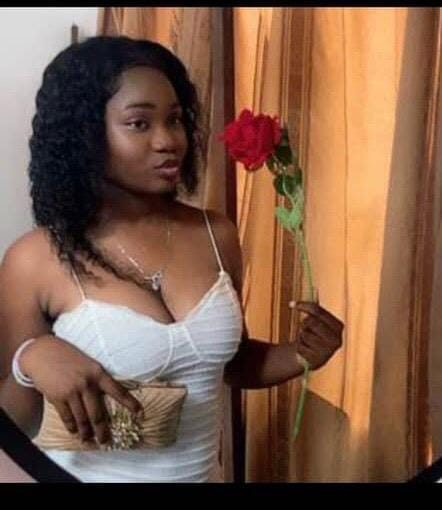
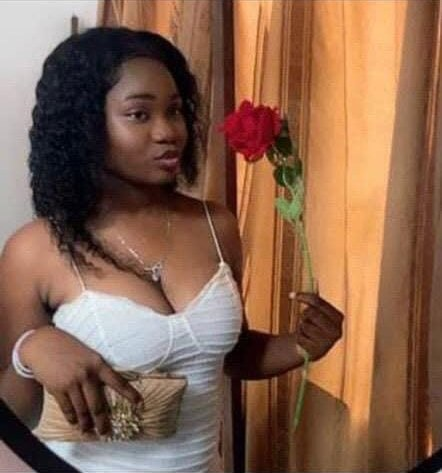
Version mobile

diff --git a/index.html b/index.html
@@ -1,5 +1,16 @@
-<title>Ton Grand Jour</title>
-<meta name="claude:viewport-fit-sides" content="cover">
+<!doctype html>
+<html lang="fr">
+<head>
+<meta charset="utf-8">
+<meta name="viewport" content="width=device-width,initial-scale=1,viewport-fit=cover">
+<meta name="theme-color" content="#170d2a">
+<meta name="description" content="Un petit cadeau pour Gracieuse, pour son anniversaire.">
+<meta property="og:type" content="website">
+<meta property="og:title" content="Joyeux anniversaire, Gracieuse">
+<meta property="og:description" content="Un petit cadeau rien que pour toi. Ouvre-le !">
+<meta property="og:image" content="https://gbodogbejores5-a11y.github.io/joyeux-anniversaire/img/studio-debout.jpg">
+<meta property="og:url" content="https://gbodogbejores5-a11y.github.io/joyeux-anniversaire/">
+<title>Joyeux anniversaire, Gracieuse</title>
 <link rel="preconnect" href="https://fonts.googleapis.com">
 <link rel="preconnect" href="https://fonts.gstatic.com" crossorigin>
 <link href="https://fonts.googleapis.com/css2?family=Cormorant+Garamond:ital,wght@0,400;0,500;0,600;1,400;1,500&family=Jost:wght@300;400;500&family=Pinyon+Script&display=swap" rel="stylesheet">
@@ -78,6 +89,7 @@ a{color:inherit}
 @keyframes scroll{to{transform:translateX(-50%)}}
 
 section{padding-block:clamp(56px,9vw,120px)}
+section.tight{padding-block:clamp(8px,2vw,24px)}
 .head{display:flex;flex-direction:column;gap:12px;margin-bottom:clamp(28px,4vw,52px);max-width:60ch}
 .head h2{font-size:clamp(2.2rem,5.4vw,4rem)}
 .head h2 em{font-style:italic;font-weight:400}
@@ -88,7 +100,7 @@ section{padding-block:clamp(56px,9vw,120px)}
   box-shadow:0 0 0 1px var(--line),0 50px 100px -30px rgba(0,0,0,.7)}
 .slide{position:absolute;inset:0;opacity:0;transition:opacity 1.3s ease;pointer-events:none}
 .slide.on{opacity:1;pointer-events:auto}
-.slide .bg{position:absolute;inset:-6%;width:112%;height:112%;object-fit:cover;filter:blur(34px) saturate(1.2) brightness(.7)}
+.slide .bg{position:absolute;inset:-6%;width:112%;height:112%;object-fit:cover;filter:blur(22px) saturate(1.2) brightness(.7)}
 .slide .fg{position:absolute;inset:0;width:100%;height:100%;object-fit:contain;padding:clamp(8px,2vw,22px);transform:scale(1)}
 .slide.on .fg{animation:zoom 7s ease-out forwards}
 @keyframes zoom{from{transform:scale(1)}to{transform:scale(1.045)}}
@@ -197,7 +209,11 @@ footer .script{font-size:2rem;color:var(--gold);display:block}
   .stage{aspect-ratio:4/5}
   .nav{width:40px;height:40px}
   .thumbs{grid-template-columns:repeat(7,1fr);gap:6px}
-  .seal,.seal-core{width:104px;height:104px;right:-8px;bottom:-14px}
+  .seal,.seal-core{width:104px;height:104px;right:-6px;bottom:-14px}
+  .hero{padding-top:28px}
+  .shots.two figure:nth-child(2){margin-top:22px}
+  .nav{display:none}
+  .stage{touch-action:pan-y}
 }
 @media (prefers-reduced-motion:reduce){
   *,*::before,*::after{animation-duration:.01ms!important;animation-iteration-count:1!important;transition-duration:.01ms!important;scroll-behavior:auto!important}
@@ -206,6 +222,8 @@ footer .script{font-size:2rem;color:var(--gold);display:block}
 }
 </style>
 
+</head>
+<body>
 <canvas id="petals" aria-hidden="true"></canvas>
 
 <header class="hero" id="haut">
@@ -252,7 +270,7 @@ footer .script{font-size:2rem;color:var(--gold);display:block}
     <div class="head will">
       <span class="eyebrow">Diaporama</span>
       <h2>Toi, en <em>pleine lumière</em></h2>
-      <p>Les images défilent toutes seules. Touche les flèches ou les miniatures pour choisir.</p>
+      <p>Les images défilent toutes seules. Glisse du doigt ou touche une miniature pour choisir.</p>
     </div>
     <div class="stage will" id="stage" aria-roledescription="carrousel" aria-label="Diaporama de photos">
       <div class="bar" id="bar"></div>
@@ -262,7 +280,7 @@ footer .script{font-size:2rem;color:var(--gold);display:block}
     <div class="thumbs will" id="thumbs"></div>
   </section>
 
-  <section>
+  <section class="tight">
     <div class="film" aria-hidden="true"><div class="film-track" id="ft"></div></div>
   </section>
 
@@ -417,8 +435,9 @@ var DUR = 5500;
   function restart(){clearInterval(timer); if(!reduce){timer=setInterval(function(){if(!paused)go(idx+1)},DUR)}}
   document.getElementById('prev').onclick=function(){go(idx-1,true)};
   document.getElementById('next').onclick=function(){go(idx+1,true)};
-  stage.addEventListener('mouseenter',function(){paused=true;bar.style.animationPlayState='paused'});
-  stage.addEventListener('mouseleave',function(){paused=false;go(idx,true)});
+  /* pause au survol seulement avec une souris (sur téléphone, le toucher ne doit jamais bloquer le défilement) */
+  stage.addEventListener('pointerenter',function(e){if(e.pointerType==='mouse'){paused=true;bar.style.animationPlayState='paused'}});
+  stage.addEventListener('pointerleave',function(e){if(e.pointerType==='mouse'){paused=false;go(idx,true)}});
   var x0=null;
   stage.addEventListener('touchstart',function(e){x0=e.touches[0].clientX},{passive:true});
   stage.addEventListener('touchend',function(e){if(x0===null)return;var d=e.changedTouches[0].clientX-x0;if(Math.abs(d)>40)go(idx+(d<0?1:-1),true);x0=null});
@@ -479,3 +498,5 @@ var DUR = 5500;
   if(!reduce){setTimeout(function(){burst(W/2,H*.35,90)},700)}
 })();
 </script>
+</body>
+</html>
